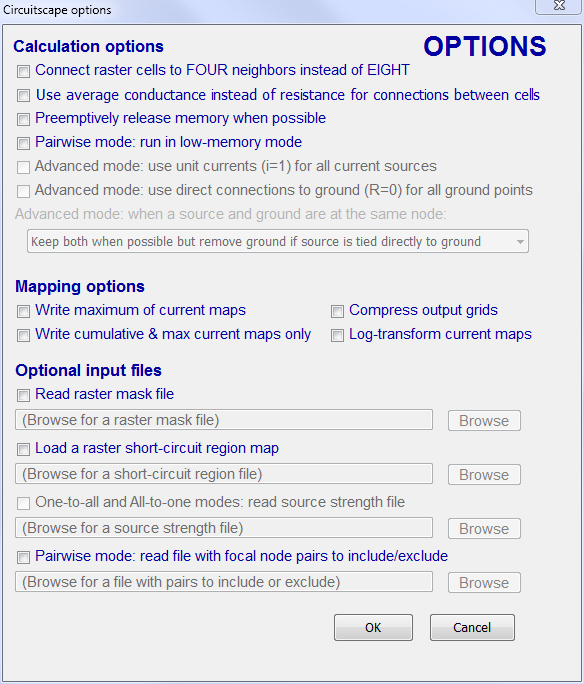
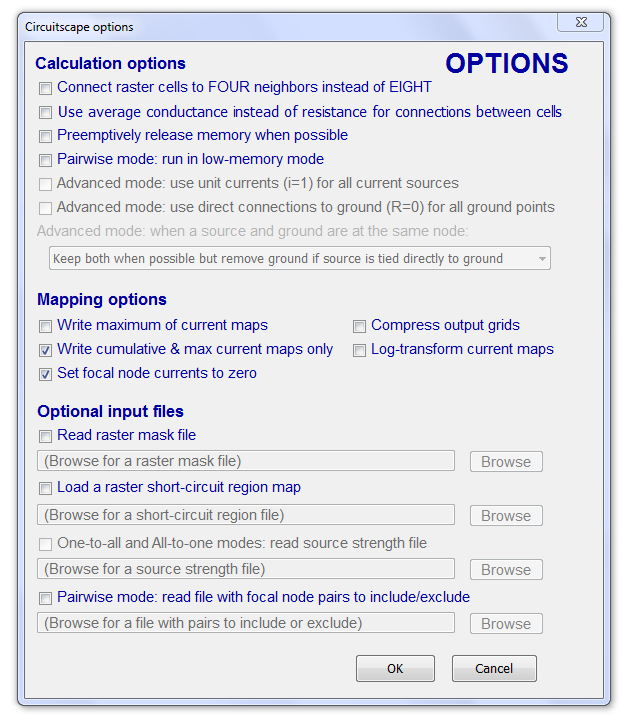
User guide update

diff --git a/docs/4.0/circuitscape_4_0.md b/docs/4.0/circuitscape_4_0.md
@@ -1,9 +1,5 @@
 #CIRCUITSCAPE User Guide 
 
-<p align="center">
-  <img src="images/image24.png"/>
-</p>
-
 **Brad McRae, Viral Shah, and Tanmay Mohapatra**
 
 **Version 4.0 Beta - Updated January 6, 2014**
@@ -232,7 +228,7 @@ voltages can be calculated at each node. Circuit above is from McRae et al.
 <p align="center"> <img src="images/Fig1_RasterInputs.png" width=" 600px;"/> 
 </p> 
 
-**Fig. 8.** Example raster input files for **pairwise and one-to-all modes**. 
+**Fig. 8.** Example raster input files for **pairwise, one-to-all, and all-to-one modes**. 
 Input files in this example include a **resistance map** specifying per-cell 
 resistances or conductances, a **focal node location file** (with two focal 
 regions and one focal point in this case), and an optional **short-circuit 
@@ -490,10 +486,10 @@ and Rick Hopkins, Live Oak Associates.
 
 ###Create voltage maps 
 
-For the pairwise modeling mode, voltage maps specify node voltages that would 
+For the pairwise modeling mode, voltage maps give node voltages that would 
 be observed for each focal node pair if one node were connected to a 1 amp 
 current source and the other to ground. For the advanced modeling mode, 
-voltage maps specify voltages at each cell resulting from the current source 
+voltage maps show voltages at each cell resulting from the current source 
 and ground configurations in the input files. 
 
 
@@ -623,6 +619,16 @@ Values in output current maps will reflect a log10 transform of current
 densities, which can be useful for visualizing them in some GIS packages (e.g.,
 ArcView 3.X). Cells with zero current will be re-coded with NODATA values. 
 
+####Set focal node currents to zero 
+
+When running raster data in pairwise, all-to-one, and one-to all modes, focal
+nodes will have zero current in output maps when they are activated. For 
+pairwise mode, cumulative maps will still show currents flowing through focal 
+regions that results from other pairs being activated. This helps to show 
+current flowing through a focal region as it moves between other focal regions 
+in cumulative current maps. This current passing through a focal region can 
+give an idea of the importance of the focal region for connecting other focal 
+region pairs (for an example, see Fig. 5 in Dickson et al. 2013).
 
 ###Optional Input Files
 
@@ -1070,6 +1076,11 @@ sizes. See McRae et al. 2008 for details of effects of using coarser grids.
 Beier, P., W. Spencer, R. Baldwin, and B.H. McRae. 2011. Best science
 practices for developing regional connectivity maps. Conservation Biology
 25(5): 879-892
+
+Dickson B.G., G.W. Roemer, B.H. McRae, and J.M. Rundall. 2013. Models of 
+regional habitat quality and connectivity for pumas (*Puma concolor*) in the 
+southwestern United States. PLoS ONE 8(12): e81898. 
+doi:10.1371/journal.pone.0081898
 
 McRae, B.H. 2006. Isolation by resistance. Evolution 60:1551-1561.
 
